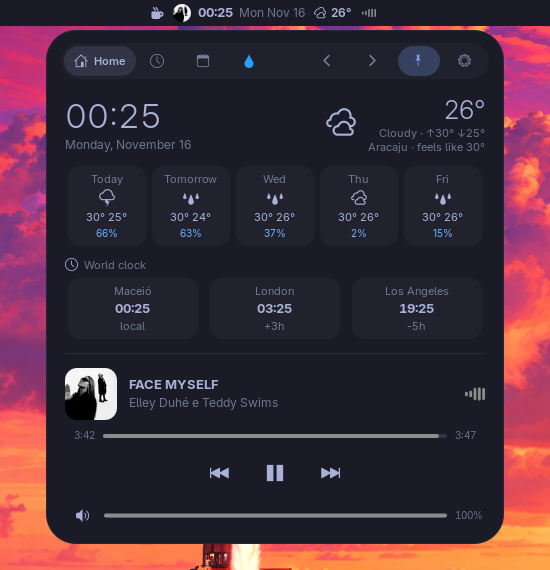
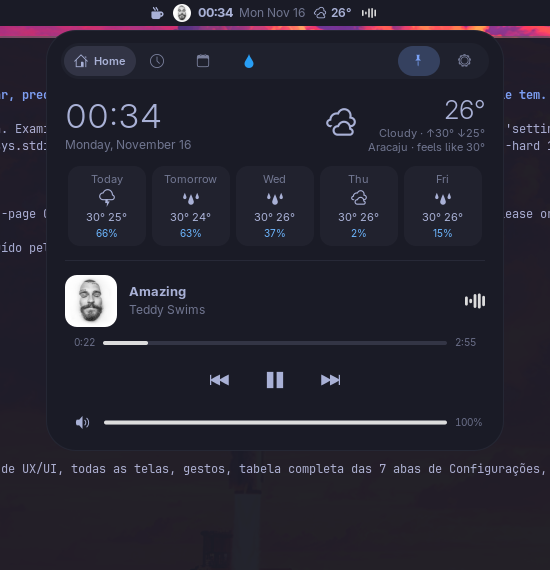
feat: remove tab arrows, add configurable bar media text/controls, and prevent track-change layout shift

diff --git a/style.css b/style.css
@@ -99,6 +99,20 @@ separator {
   padding: 8px;
 }
 
+.compact button.mini-ctrl {
+  background: none;
+  border: none;
+  box-shadow: none;
+  padding: 0 3px;
+  min-width: 18px;
+  min-height: 18px;
+  border-radius: 999px;
+}
+
+.compact button.mini-ctrl:hover {
+  background-color: rgba(255, 255, 255, 0.14);
+}
+
 /* lembrete de água */
 .island button.water-main {
   background: rgb(41, 158, 245);

diff --git a/views.py b/views.py
@@ -75,8 +75,9 @@ class Compact(Gtk.Box):
 
     HEIGHT = 26
 
-    def __init__(self):
+    def __init__(self, player=None):
         super().__init__(spacing=0)
+        self.player = player
         self.get_style_context().add_class("compact")
         self.set_size_request(-1, self.HEIGHT)
         self.set_margin_start(4)
@@ -87,6 +88,33 @@ class Compact(Gtk.Box):
         art_box.set_margin_end(7)
         art_box.add(self.art)
         self.art_rev = revealer(art_box, Gtk.RevealerTransitionType.SLIDE_RIGHT)
+
+        # controles compactos na barra (posição configurável)
+        ctrl_box = Gtk.Box(spacing=1)
+        ctrl_box.set_margin_start(4)
+        ctrl_box.set_margin_end(5)
+        self.mini_play_img = None
+        if player is not None:
+            p_btn, _ = self._mini_ctrl("media-skip-backward-symbolic", player.previous)
+            pl_btn, self.mini_play_img = self._mini_ctrl("media-playback-start-symbolic",
+                                                         player.play_pause)
+            n_btn, _ = self._mini_ctrl("media-skip-forward-symbolic", player.next)
+            for b in (p_btn, pl_btn, n_btn):
+                ctrl_box.pack_start(b, False, False, 0)
+        self.ctrl_rev = revealer(ctrl_box, Gtk.RevealerTransitionType.SLIDE_RIGHT)
+
+        # nome da música / banda na barra (posição configurável)
+        bar_track_box = Gtk.Box()
+        bar_track_box.set_margin_start(4)
+        bar_track_box.set_margin_end(7)
+        self.bar_track_lb = label("dim")
+        bar_track_box.add(self.bar_track_lb)
+        self.bar_track_rev = revealer(bar_track_box, Gtk.RevealerTransitionType.SLIDE_RIGHT)
+
+        self._has_track = False
+        self._playing = False
+        self._bar_track_mode = "off"
+        self._bar_controls_pos = "off"
 
         self.clock = label("clock")
         self.date = label("dim")
@@ -144,8 +172,62 @@ class Compact(Gtk.Box):
         self.middle.add_named(info, "info")
         self.middle.add_named(track, "track")
 
-        for w in (self.art_rev, self.middle, self.eq_rev):
+        for w in (self.ctrl_rev, self.bar_track_rev, self.art_rev, self.middle, self.eq_rev):
             self.pack_start(w, False, False, 0)
+
+    @staticmethod
+    def _mini_ctrl(icon_name, cb):
+        btn = Gtk.Button()
+        img = icon(icon_name, 12)
+        btn.add(img)
+        btn.set_relief(Gtk.ReliefStyle.NONE)
+        btn.set_can_focus(False)
+        btn.get_style_context().add_class("mini-ctrl")
+        btn.connect("clicked", lambda *_a: cb())
+        return btn, img
+
+    def set_bar_media(self, cfg, track):
+        mode = cfg["bar_track_mode"]
+        t_pos = cfg["bar_track_pos"]
+        c_pos = cfg["bar_controls_pos"]
+        self._bar_track_mode = mode
+        self._bar_controls_pos = c_pos
+
+        # Reordena os slots: before_art -> art_rev -> after_art -> middle -> right -> eq_rev
+        order = []
+        if c_pos == "left_before_art":
+            order.append(self.ctrl_rev)
+        if t_pos == "before_art":
+            order.append(self.bar_track_rev)
+        order.append(self.art_rev)
+        if c_pos == "left_after_art":
+            order.append(self.ctrl_rev)
+        if t_pos == "after_art":
+            order.append(self.bar_track_rev)
+        order.append(self.middle)
+        if t_pos == "right":
+            order.append(self.bar_track_rev)
+        if c_pos == "right":
+            order.append(self.ctrl_rev)
+        if self.ctrl_rev not in order:
+            order.append(self.ctrl_rev)
+        if self.bar_track_rev not in order:
+            order.append(self.bar_track_rev)
+        order.append(self.eq_rev)
+        for idx, w in enumerate(order):
+            self.reorder_child(w, idx)
+
+        text = ""
+        if track and mode != "off":
+            if mode == "title":
+                text = clip(track.title, 26)
+            elif mode == "artist":
+                text = clip(track.artist or track.title, 24)
+            else:
+                text = clip(f"{track.title} · {track.artist}" if track.artist else track.title, 34)
+        self.bar_track_lb.set_text(text)
+        self.bar_track_rev.set_reveal_child(bool(text))
+        self.ctrl_rev.set_reveal_child(self._has_track and c_pos != "off")
 
     def set_track_text(self, title, artist):
         self.t_title.set_text(clip(title, 32))
@@ -180,8 +262,17 @@ class Compact(Gtk.Box):
         self.dev_rev.set_reveal_child(bool(icon_name))
 
     def set_music(self, has_track, playing):
+        self._has_track = has_track
+        self._playing = playing
         self.art_rev.set_reveal_child(has_track)
-        self.eq_rev.set_reveal_child(has_track and playing and self.eq.style != "off")
+        self.eq_rev.set_reveal_child(has_track and self.eq.style != "off")
+        self.ctrl_rev.set_reveal_child(has_track and self._bar_controls_pos != "off")
+        self.bar_track_rev.set_reveal_child(
+            has_track and self._bar_track_mode != "off" and bool(self.bar_track_lb.get_text()))
+        if self.mini_play_img is not None:
+            self.mini_play_img.set_from_icon_name(
+                "media-playback-pause-symbolic" if playing else "media-playback-start-symbolic",
+                Gtk.IconSize.BUTTON)
         self.eq.set_playing(playing)
 
 

diff --git a/island.py b/island.py
@@ -147,6 +147,8 @@ class Island(PagesMixin, InputMixin, Gtk.Window):
             self._sync_page_dots()
         if key is None or key in ("show_date", "show_weather"):
             self.compact.set_visibility(cfg["show_date"], cfg["show_weather"])
+        if key is None or key in ("bar_track_mode", "bar_track_pos", "bar_controls_pos"):
+            self.compact.set_bar_media(cfg, self.player.track)
         if key is None or (key or "").startswith("agenda_") or key in (
                 "week_start", "birth_year", "life_expectancy"):
             self._on_agenda_change()
@@ -204,7 +206,7 @@ class Island(PagesMixin, InputMixin, Gtk.Window):
         self.shell.get_style_context().add_class("island")
         self.add(self.shell)
 
-        self.compact = Compact()
+        self.compact = Compact(self.player)
         self.shell.pack_start(self.compact, True, True, 0)
 
         self.popup = Gtk.Window(title="linux-island-popup")
@@ -318,10 +320,19 @@ class Island(PagesMixin, InputMixin, Gtk.Window):
             self._on_status(False)
 
     def _on_track(self, track, initial=False):
+        if track is None:
+            # Evita layout shift se o player limpar metadados brevemente entre faixas
+            self._later("drop_track", 650, lambda: self._apply_track(None, initial=True))
+            return
+        self._cancel("drop_track")
+        self._apply_track(track, initial=initial)
+
+    def _apply_track(self, track, initial=False):
         prev = self.full.title.get_text() if self.full.music_rev.get_reveal_child() else ""
         self.full.set_track(track)
         if track:
             self.compact.set_track_text(track.title, track.artist)
+        self.compact.set_bar_media(self.cfg, track)
         self.compact.set_music(track is not None, self.player.playing)
         self._follow_size()
         if not initial and track and prev and prev != track.title:

diff --git a/settings.py b/settings.py
@@ -529,6 +529,31 @@ class Settings(SettingsPagesMixin, Gtk.Window):
                                                                  "Ex.: firefox, chromium"),
                   "Nomes separados por vírgula — por exemplo, para não mostrar vídeos do navegador")
 
+        bar_media = self._group(page, "Mídia na barra")
+        self._row(bar_media, "Texto na barra", self._choice(
+            "bar_track_mode",
+            [
+                ("off", "Desativado"),
+                ("title", "Nome da música"),
+                ("artist", "Nome da banda / artista"),
+                ("both", "Música e banda"),
+            ]))
+        self._row(bar_media, "Posição do texto", self._choice(
+            "bar_track_pos",
+            [
+                ("before_art", "Esquerda (antes da capa)"),
+                ("after_art", "Esquerda (depois da capa)"),
+                ("right", "Direita"),
+            ]))
+        self._row(bar_media, "Botões do player na barra", self._choice(
+            "bar_controls_pos",
+            [
+                ("off", "Ocultos"),
+                ("left_before_art", "Esquerda (antes da capa)"),
+                ("left_after_art", "Esquerda (depois da capa)"),
+                ("right", "Direita"),
+            ]))
+
         pos = self._group(page, "Posição")
         self._row(pos, "Distância do topo (px)", self._spin("margin_top", 0, 200))
         self._row(pos, "Ajustar espaçador da barra", self._switch("bar_spacer_sync"),

diff --git a/pages.py b/pages.py
@@ -69,22 +69,6 @@ class PagesMixin:
         self.pin_btn.connect("toggled", self._on_pin_toggled)
         self._on_pin_toggled(self.pin_btn)
 
-        prev_btn = Gtk.Button()
-        prev_btn.add(icon("go-previous-symbolic", 13))
-        prev_btn.set_relief(Gtk.ReliefStyle.NONE)
-        prev_btn.set_can_focus(False)
-        prev_btn.set_tooltip_text(_("Página anterior"))
-        prev_btn.get_style_context().add_class("tab")
-        prev_btn.connect("clicked", lambda *_a: self.turn_page(-1, wrap=True))
-
-        next_btn = Gtk.Button()
-        next_btn.add(icon("go-next-symbolic", 13))
-        next_btn.set_relief(Gtk.ReliefStyle.NONE)
-        next_btn.set_can_focus(False)
-        next_btn.set_tooltip_text(_("Próxima página"))
-        next_btn.get_style_context().add_class("tab")
-        next_btn.connect("clicked", lambda *_a: self.turn_page(1, wrap=True))
-
         cfg_btn = Gtk.Button()
         cfg_btn.add(icon("emblem-system-symbolic", 13))
         cfg_btn.set_relief(Gtk.ReliefStyle.NONE)
@@ -95,8 +79,6 @@ class PagesMixin:
 
         bar.pack_end(cfg_btn, False, False, 0)
         bar.pack_end(self.pin_btn, False, False, 0)
-        bar.pack_end(next_btn, False, False, 0)
-        bar.pack_end(prev_btn, False, False, 0)
         box.pack_start(bar, False, False, 0)
 
         self.pages = Gtk.Stack()

diff --git a/locale_es.py b/locale_es.py
@@ -339,6 +339,17 @@ ES = {
     "Abrir o {app}": "Abrir {app}",
     "Players": "Reproductores",
     "Ignorar players": "Ignorar reproductores",
+    "Mídia na barra": "Multimedia en la barra",
+    "Texto na barra": "Texto en la barra",
+    "Nome da música": "Nombre de la canción",
+    "Nome da banda / artista": "Nombre de la banda / artista",
+    "Música e banda": "Canción y banda",
+    "Posição do texto": "Posición del texto",
+    "Esquerda (antes da capa)": "Izquierda (antes de la portada)",
+    "Esquerda (depois da capa)": "Izquierda (después de la portada)",
+    "Direita": "Derecha",
+    "Botões do player na barra": "Controles del reproductor en la barra",
+    "Ocultos": "Ocultos",
     "Ex.: firefox, chromium": "Ej.: firefox, chromium",
     "Nomes separados por vírgula — por exemplo, para não mostrar vídeos do navegador": "Nombres separados por comas — por ejemplo, para no mostrar videos del navegador",
     "Role sobre a ilha para aumentar ou baixar o volume da música": "Desplázate sobre la isla para subir o bajar el volumen de la música",

diff --git a/locale_en.py b/locale_en.py
@@ -334,6 +334,17 @@ EN = {
     "Abrir o {app}": "Open {app}",
     "Players": "Players",
     "Ignorar players": "Ignore players",
+    "Mídia na barra": "Bar media",
+    "Texto na barra": "Bar text",
+    "Nome da música": "Song title",
+    "Nome da banda / artista": "Band / artist name",
+    "Música e banda": "Song & band",
+    "Posição do texto": "Text position",
+    "Esquerda (antes da capa)": "Left (before art)",
+    "Esquerda (depois da capa)": "Left (after art)",
+    "Direita": "Right",
+    "Botões do player na barra": "Bar player controls",
+    "Ocultos": "Hidden",
     "Ex.: firefox, chromium": "E.g. firefox, chromium",
     "Nomes separados por vírgula — por exemplo, para não mostrar vídeos do navegador": "Names separated by commas — for example, to hide browser videos",
     "Role sobre a ilha para aumentar ou baixar o volume da música": "Scroll over the island to raise or lower the music volume",

diff --git a/players.py b/players.py
@@ -149,10 +149,18 @@ class Player:
         if changed:
             self._set_pos(0)
             self.sync_position()
-            self.art_path = None
-        if changed or art_changed:
+        if (changed or art_changed) and track.art_url:
             self._fetch_art(track)
+        elif changed and not track.art_url:
+            # Aguarda brevemente: navegadores costumam enviar artUrl logo após o título
+            GLib.timeout_add(650, self._clear_art_if_empty, track.key())
         self.events(self, "track")
+
+    def _clear_art_if_empty(self, key):
+        if self.track and self.track.key() == key and not self.track.art_url:
+            self.art_path = None
+            self.events(self, "art")
+        return False
 
     # --- posição (alguns players não emitem mudanças de Position) --------
     def _set_pos(self, us):

diff --git a/config.py b/config.py
@@ -83,6 +83,9 @@ SCHEMA = {
     "life_expectancy": (90, _int_range(1, 150)),
     # integração com o Omarchy
     "bar_spacer_sync": (True, _is_bool),
+    "bar_track_mode": ("off", _choice("off", "title", "artist", "both")),
+    "bar_track_pos": ("after_art", _choice("before_art", "after_art", "right")),
+    "bar_controls_pos": ("off", _choice("off", "left_before_art", "left_after_art", "right")),
     "world_cities": (
         "Maceió|America/Maceio, London|Europe/London, Los Angeles|America/Los_Angeles",
         lambda v: isinstance(v, str) and len(v) <= 1000,

diff --git a/README.es.md b/README.es.md
@@ -38,7 +38,7 @@ flowchart LR
 ### Decisiones de UX/UI
 - **Dos ventanas `gtk-layer-shell` independientes:** la píldora de la barra (`y = 0`, 26px, sin borde) y el panel expandido (`y = 30px`, esquinas redondeadas) son superficies separadas. Al abrir el panel, el reloj sigue visible en la barra (igual que el `omarchy.clock` original).
 - **Espaciador dinámico (`omarchy.spacer`):** cada vez que cambia el ancho de la píldora compacta (música sonando/pausada, fecha o clima activados/desactivados), la isla ajusta automáticamente el tamaño de `omarchy.spacer` en `~/.config/omarchy/shell.json`, manteniendo los iconos de `centerBegin` pegados al reloj.
-- **Barra de navegación fija arriba:** las pestañas (**Inicio**, **Mundo**, **Agenda**, **Agua**), las flechas `<` / `>`, el botón **Fijar abierta** (*Pin*) y el acceso a **Ajustes** permanecen siempre en el mismo sitio en la parte superior del panel, sin importar la altura de cada página.
+- **Barra de navegación fija arriba:** las pestañas (**Inicio**, **Mundo**, **Agenda**, **Agua**), el botón **Fijar abierta** (*Pin*) y el acceso a **Ajustes** permanecen siempre en el mismo sitio en la parte superior del panel, sin importar la altura de cada página.
 - **No se cierra al hacer clic dentro:** hacer clic en zonas libres del panel no lo cierra por accidente; se cierra al apartar el ratón (margen de 900 ms), al hacer clic en la píldora de la barra o al desfijar el Pin.
 - **Multi-monitor sincronizado:** crea una instancia anclada en cada monitor conectado (`monitor-added` / `monitor-removed`), compartiendo reproductor, volumen, clima, agenda e hidratación.
 - **Tema vivo de Omarchy:** lee `background`, `foreground` y `accent` del `colors.toml` del tema activo y se actualiza al instante mediante `Gio.FileMonitor` en `theme.generation` + hook `theme-set.d`.
@@ -102,7 +102,7 @@ Todos los cambios se aplican y guardan automáticamente al instante (y se confir
 | Pasar el ratón por la píldora | abre el panel debajo de la barra |
 | Clic en la píldora de la barra | alterna abrir / cerrar |
 | Clic en **Fijar abierta** (Pin) | mantiene el panel abierto al apartar el ratón |
-| Clic en pestañas / `<` `>` / deslizar | cambia entre *Inicio*, *Mundo*, *Agenda* y *Agua* |
+| Clic en pestañas / deslizar | cambia entre *Inicio*, *Mundo*, *Agenda* y *Agua* |
 | Girar la rueda del ratón | ajusta el volumen (MPRIS o PipeWire) |
 | Clic con botón central | play / pausa |
 | Clic derecho | menú: Ajustes, abrir reproductor, Salir |

diff --git a/README.md b/README.md
@@ -38,7 +38,7 @@ flowchart LR
 ### Escolhas de UX/UI
 - **Duas janelas `gtk-layer-shell` independentes:** a pílula da barra (`y = 0`, 26px, sem borda) e o painel expandido (`y = 30px`, cantos arredondados) são superfícies separadas. Ao abrir o painel, a pílula continua visível na barra (assim como o `omarchy.clock` original).
 - **Espaçador dinâmico (`omarchy.spacer`):** sempre que a largura da pílula compacta muda (música tocando/parando, data ou clima ligados/desligados), a ilha ajusta automaticamente o tamanho de `omarchy.spacer` no `~/.config/omarchy/shell.json`, mantendo os ícones de `centerBegin` colados ao relógio.
-- **Barra de navegação fixa no topo:** abas (**Início**, **Mundo**, **Agenda**, **Água**), setas `<` / `>`, botão **Fixar aberta** (*Pin*) e atalho de **Configurações** ficam sempre no mesmo lugar no topo do painel, mesmo quando cada aba tem altura diferente.
+- **Barra de navegação fixa no topo:** abas (**Início**, **Mundo**, **Agenda**, **Água**), botão **Fixar aberta** (*Pin*) e atalho de **Configurações** ficam sempre no mesmo lugar no topo do painel, mesmo quando cada aba tem altura diferente.
 - **Não fecha ao clicar dentro:** clicar em áreas livres do painel não fecha a ilha acidentalmente; ela fecha ao tirar o mouse (com tolerância de 900 ms) ou ao clicar na pílula da barra / desafixar o Pin.
 - **Multi-monitor sincronizado:** cria uma instância ancorada em cada monitor conectado (`monitor-added` / `monitor-removed`), compartilhando player, volume, clima, agenda e hidratação.
 - **Tema vivo do Omarchy:** lê `background`, `foreground` e `accent` do `colors.toml` do tema ativo e atualiza ao vivo via `Gio.FileMonitor` em `theme.generation` + hook `theme-set.d`.
@@ -102,7 +102,7 @@ Todas as opções aplicam e salvam automaticamente ao vivo (com confirmação im
 | Passar o mouse na pílula da barra | abre o painel abaixo da barra |
 | Clicar na pílula da barra | alterna abrir / fechar |
 | Clicar em **Fixar aberta** (Pin) | mantém o painel aberto mesmo tirando o mouse |
-| Clicar nas abas / `<` `>` / arrastar | troca entre *Início*, *Mundo*, *Agenda* e *Água* |
+| Clicar nas abas / arrastar | troca entre *Início*, *Mundo*, *Agenda* e *Água* |
 | Rolar a rodinha do mouse | ajusta o volume (MPRIS ou PipeWire) |
 | Clique do meio | play / pause |
 | Botão direito | menu: Configurações, abrir player, Sair |

diff --git a/README.en.md b/README.en.md
@@ -38,7 +38,7 @@ flowchart LR
 ### UX/UI Choices
 - **Two independent `gtk-layer-shell` windows:** the bar pill (`y = 0`, 26px, borderless) and the expanded panel (`y = 30px`, rounded corners) are separate surfaces. Opening the panel keeps the clock pill visible in the bar (just like the stock `omarchy.clock`).
 - **Dynamic bar spacer (`omarchy.spacer`):** whenever the compact pill width changes (music playing/stopped, date or weather toggled), the island automatically updates `omarchy.spacer` in `~/.config/omarchy/shell.json`, keeping `centerBegin` icons snug next to the clock.
-- **Fixed top navigation bar:** tabs (**Home**, **World**, **Calendar**, **Water**), `<` / `>` arrows, **Pin open** toggle, and **Settings** shortcut stay in the exact same spot at the top of the popup regardless of page height.
+- **Fixed top navigation bar:** tabs (**Home**, **World**, **Calendar**, **Water**), **Pin open** toggle, and **Settings** shortcut stay in the exact same spot at the top of the popup regardless of page height.
 - **Doesn't close on inner clicks:** clicking empty space inside the open panel will not close it accidentally; it closes when moving the pointer away (900 ms grace delay), clicking the bar pill, or unpinning.
 - **Multi-monitor sync:** spawns one anchored instance per connected monitor (`monitor-added` / `monitor-removed`), sharing player, volume, weather, calendar, and hydration state.
 - **Live Omarchy theme sync:** reads `background`, `foreground`, and `accent` from the active theme's `colors.toml` and updates live via `Gio.FileMonitor` on `theme.generation` + `theme-set.d` hook.
@@ -102,7 +102,7 @@ All changes apply and save live automatically (and flush immediately when closin
 | Hover the bar pill | opens the panel below the bar |
 | Click the bar pill | toggles open / closed |
 | Click **Pin open** | keeps the panel open when moving the pointer away |
-| Click tabs / `<` `>` / swipe | switches between *Home*, *World*, *Calendar*, and *Water* |
+| Click tabs / swipe | switches between *Home*, *World*, *Calendar*, and *Water* |
 | Scroll mouse wheel | adjusts volume (MPRIS or PipeWire) |
 | Middle-click | play / pause |
 | Right-click | opens menu: Settings, open player, Quit |
